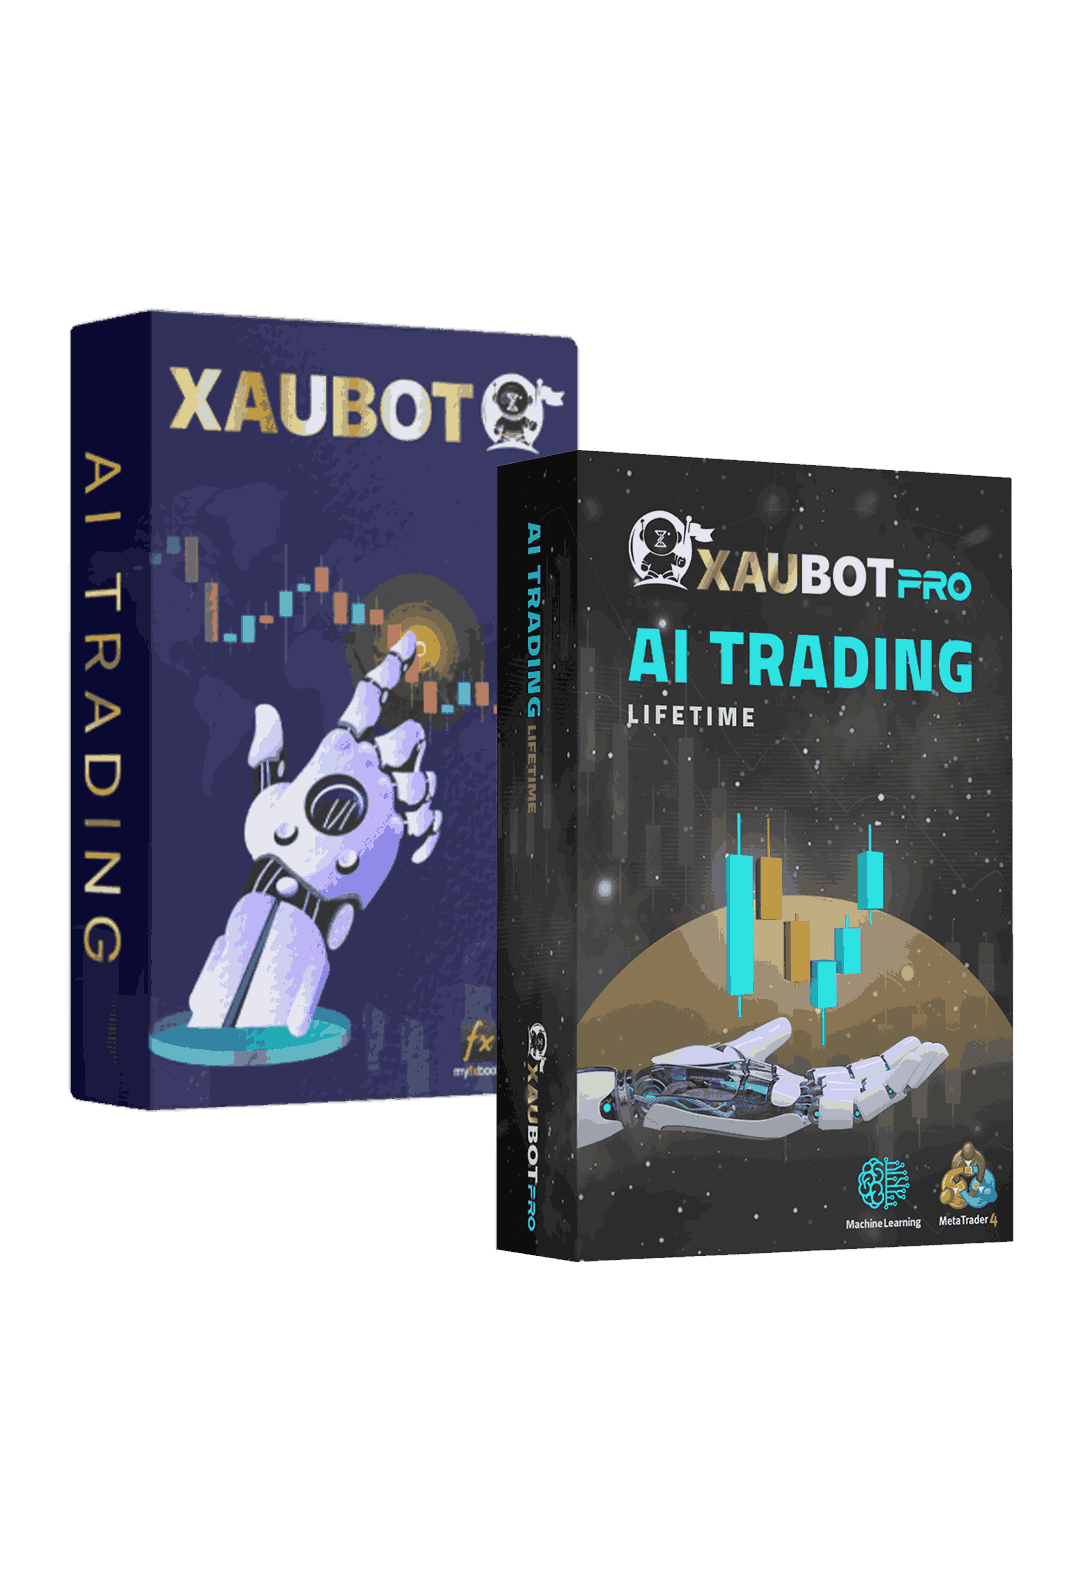
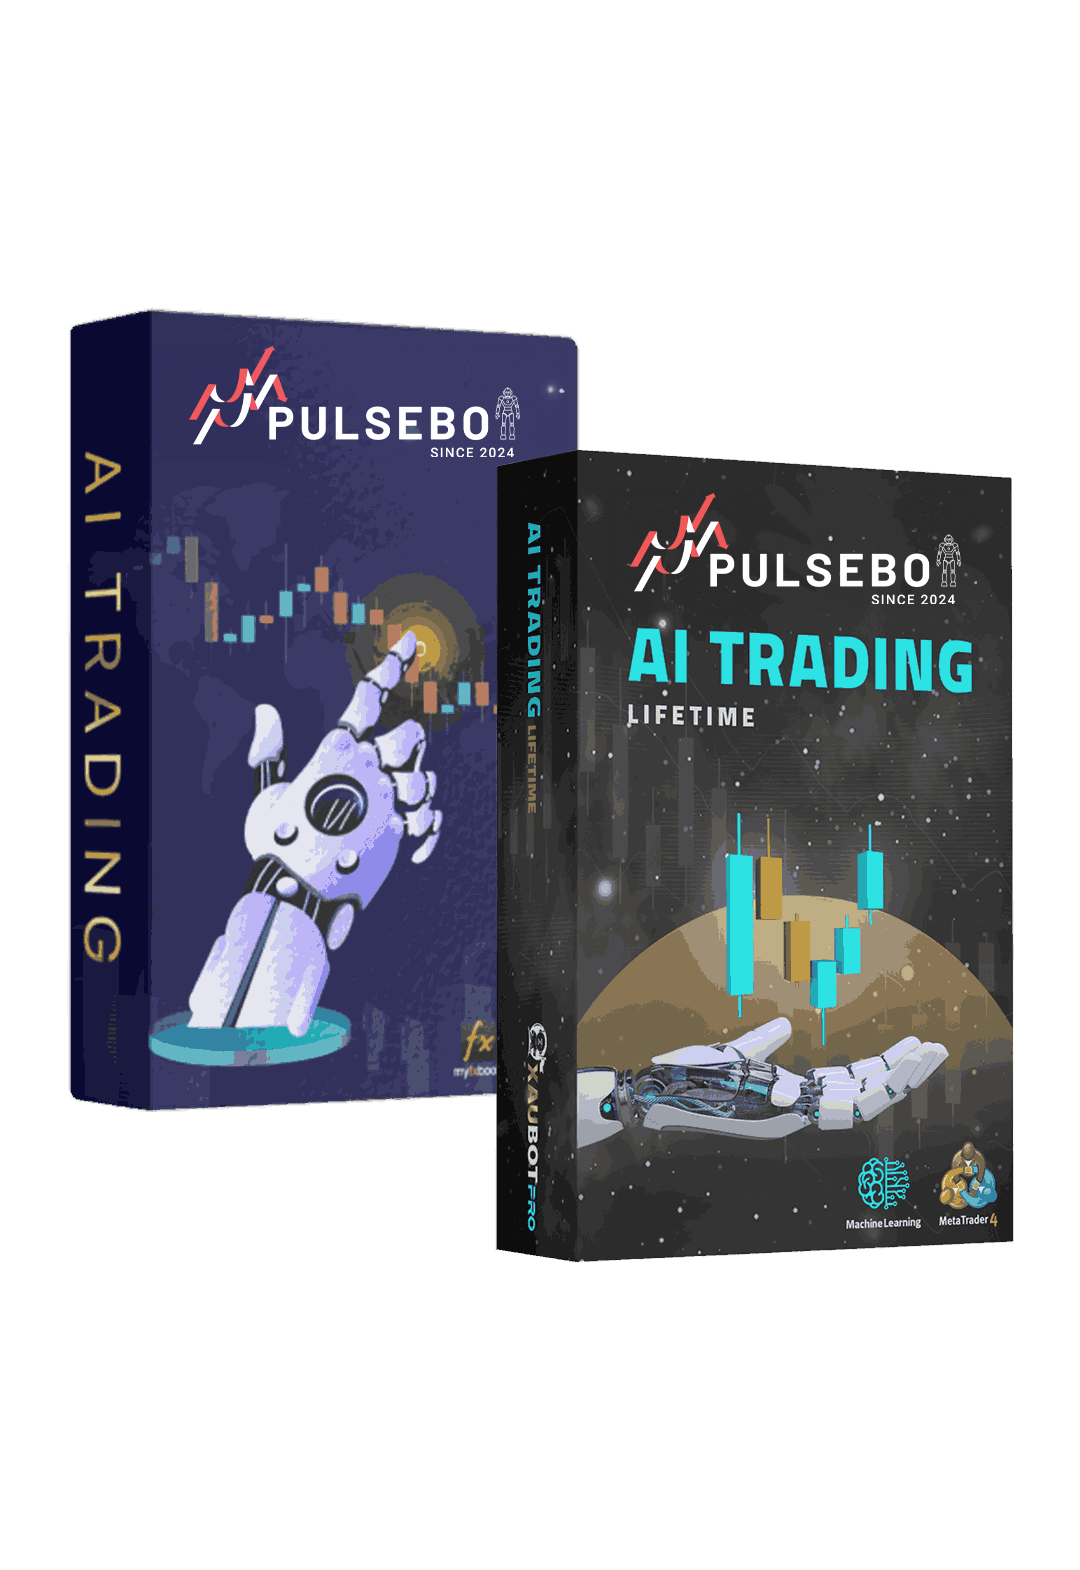
responsive

Changed region(s): [[0.1528, 0.2185, 0.5194, 0.3121], [0.5806, 0.3121, 0.9167, 0.4057]]

diff --git a/assets/css/style.css b/assets/css/style.css
@@ -750,6 +750,11 @@ footer{
 .strategies .strategies-head{
     font-weight: 800;
     font-size: 40px;
+    color: var(--white);
+}
+.questions{
+    font-weight: 800;
+    font-size: 40px;
 }
 .strategies-head span{
     color: var(--secandry);

diff --git a/index.php b/index.php
@@ -59,7 +59,7 @@
                         <div class="col-md-7">
                             <div class="row p-2">
                                 <div class="col-lg-7 mt-4 text-lg-start text-center">
-                                    <p>AI-powered forex trading bot to help you save time and let xaubot do the work for
+                                    <p>AI-powered forex trading bot to help you save time and let Pulsebot do the work for
                                         you</p>
                                 </div>
                                 <div class="col-lg-4">
@@ -127,7 +127,7 @@
                         <a href="">
                             <img src="assets/img/result1.png" class="img-fluid w-100" alt="">
                             <div class="live_result_name">
-                                Multi level & Scalp XAUBOT's Myfxbook
+                                Multi level & Scalp Pulsebot's Myfxbook
                             </div>
                         </a>
                     </div>
@@ -135,7 +135,7 @@
                         <a href="">
                             <img src="assets/img/result1.png" class="img-fluid w-100" alt="">
                             <div class="live_result_name">
-                                Multi level & Scalp XAUBOT's Myfxbook
+                                Multi level & Scalp Pulsebot's Myfxbook
                             </div>
                         </a>
                     </div>
@@ -143,7 +143,7 @@
                         <a href="">
                             <img src="assets/img/result1.png" class="img-fluid w-100" alt="">
                             <div class="live_result_name">
-                                Multi level & Scalp XAUBOT's Myfxbook
+                                Multi level & Scalp Pulsebot's Myfxbook
                             </div>
                         </a>
                     </div>
@@ -151,7 +151,7 @@
                         <a href="">
                             <img src="assets/img/result1.png" class="img-fluid w-100" alt="">
                             <div class="live_result_name">
-                                Multi level & Scalp XAUBOT's Myfxbook
+                                Multi level & Scalp Pulsebot's Myfxbook
                             </div>
                         </a>
                     </div>
@@ -328,8 +328,8 @@
                         <div class="str__drop">
                             <span class="str__heading">Plan</span>
                             <select class="form-select w-100" id="selectplan" aria-label="Default select example">
-                                <option value="39">XAUBOT AI</option>
-                                <option value="33">XAUBOT Pro</option>
+                                <option value="39">Pulsebot AI</option>
+                                <option value="33">Pulsebot Pro</option>
                             </select>
                         </div>
                     </div>

diff --git a/pulsebot-ai.php b/pulsebot-ai.php
@@ -79,7 +79,7 @@
             </div>
             <div class="col-lg-6">
                 <div class="what-include-box">
-                    <img src="assets/img/what-include-img1.png" class="img-fluid" alt="">
+                    <img src="assets/img/what-include-img2.png" class="img-fluid" alt="">
                     <h2>Scalp Strategy EA
                     </h2>
                     <p>Pulsebot’s Scalp Strategy EA is designed for traders seeking quick, short-term opportunities, particularly during low volatility periods. This high-performance bot allows you to set precise stop loss and take profit levels, ensuring optimal gains while minimizing risks. Perfect for aggressive trading styles, especially for those trading during off-peak hours.
@@ -132,7 +132,7 @@
                         </div>
                         <div class="suport-disc text-start">
                             <h2 class="fs-5">24/5 Support</h2>
-                            <h2 class="fs-5">XAUBOT offers 24/5 support</h2>
+                            <h2 class="fs-5">Pulsebot offers 24/5 support</h2>
                         </div>
                     </a>
                 </div>
@@ -155,7 +155,7 @@
                         </div>
                         <div class="suport-disc text-start">
                             <h2 class="fs-5">24/5 Support</h2>
-                            <h2 class="fs-5">XAUBOT offers 24/5 support</h2>
+                            <h2 class="fs-5">Pulsebot offers 24/5 support</h2>
                         </div>
                     </a>
                 </div>
@@ -171,7 +171,7 @@
         <div class="row g-4">
             <div class="col-lg-6 col-md-6">
                 <div class="key_feature_box text-center h-100">
-                    <h2>Key Features of <br> XAUBOT AI
+                    <h2>Key Features of <br> Pulsebot AI
                     </h2>
                     <ul class="list-group list-inline">
                         <li><strong>Money & Risk Management: </strong>Advanced techniques to protect and grow your investment.</li>
@@ -211,7 +211,7 @@
         <div class="row">
             <div class="col-12 text-center">
                 <div class="section_head">
-                    <h2>How to Install <br> XAUBOT?
+                    <h2>How to Install <br> Pulsebot?
                     </h2>
                 </div>
             </div>
@@ -267,7 +267,7 @@
                             <div id="collapseOne" class="accordion-collapse collapse" aria-labelledby="headingOne"
                                 data-bs-parent="#accordionExample" style="">
                                 <div class="accordion-body">
-                                    XAUBOT Works with ALL forex currency pairs
+                                    Pulsebot Works with ALL forex currency pairs
                                 </div>
                             </div>
                         </div>

diff --git a/includes/footer.php b/includes/footer.php
@@ -20,8 +20,8 @@
 
                         <h3>Features</h3>
                         <ul>
-                          <li><a href="">XAUBOT AI</a></li>
-                          <li><a href="">XAUBOT PRO</a></li>
+                          <li><a href="">Pulsebot AI</a></li>
+                          <li><a href="">Pulsebot PRO</a></li>
                           <li><a href="">Trading Academy</a></li>
                         </ul>
                     </div>
@@ -42,13 +42,13 @@
                 <div class="col-lg-6 col-md-12  ">
                     <div class="footer_disc">
                         <img src="assets/img/light-logo.png" class="img-fluid" width="180px" alt="">
-                        <p class="text-light">XAUBOT is the first AI trading tool in the world that is based on machine learning technology
+                        <p class="text-light">Pulsebot is the first AI trading tool in the world that is based on machine learning technology
                             to achieve impressive profit margins while maintaining low drawdown rates.</p>
                     </div>
 
                 </div>
                 <div class="footer_line"></div>
-                <p class="text-center  text-light pt-2" >© 2023 - 2024 XAUBOT - All Rights Reserved.</p>
+                <p class="text-center  text-light pt-2" >© 2023 - 2024 Pulsebot - All Rights Reserved.</p>
             </div>
         </div>
 
@@ -63,7 +63,7 @@
 
     </footer>
     <!-- Jquery CDN -->
-    <script src="https://xaubot.com/wp-content/themes/betheme/assets/js/jquery.js"></script>
+    <script src="https://Pulsebot.com/wp-content/themes/betheme/assets/js/jquery.js"></script>
     <!-- bootstrap js -->
     <script src="assets/js/bootstrap/bootstrap.bundle.min.js"></script>
     <!-- chart js -->

diff --git a/pulsebot-webinar.php b/pulsebot-webinar.php
@@ -30,7 +30,7 @@
 				<h3 class="strategies-head">
 					Top 3 Strategies for <span>Forex Trading</span> in 2024
 				</h3>
-				<h4>
+				<h4 class="text-white">
 					What You’ll Discover
 				</h4>
 			</div>
@@ -109,7 +109,7 @@
 	<div class="container">
 		<div class="row">
 			<div class="col-md-12 text-center">
-				<h3 class="strategies-head">
+				<h3 class="questions">
 					Got Questions About <span>Trading</span>
 				</h3>
 				<h4>
@@ -146,7 +146,7 @@
                             <div id="collapseOne" class="accordion-collapse collapse" aria-labelledby="headingOne"
                                 data-bs-parent="#accordionExample" style="">
                                 <div class="accordion-body">
-                                    XAUBOT Works with ALL forex currency pairs
+                                    Pulsebot Works with ALL forex currency pairs
                                 </div>
                             </div>
                         </div>

diff --git a/contact-us.php b/contact-us.php
@@ -6,7 +6,7 @@
 			<div class="col-12">
 				<h2 class="main-heading text-gradient-color">Let’s Connect</h2>
 				<p class="text-center">
-					Contact us with any questions or if you’d like more information about XAUBOT Group’s services.
+					Contact us with any questions or if you’d like more information about Pulsebot Group’s services.
 				</p>
 			</div>
 		</div>

diff --git a/pulsebot-pro.php b/pulsebot-pro.php
@@ -92,7 +92,7 @@ Designed for short-term trading, especially in low volatility, this strategy sup
             </div>
 
         </div>
-        <div class="row">
+        <div class="row g-4 mt-4">
             <div class="col-lg-6">
                 <div class="what-include-box">
                     <img src="assets/img/what-include-img1.png" class="img-fluid" alt="">
